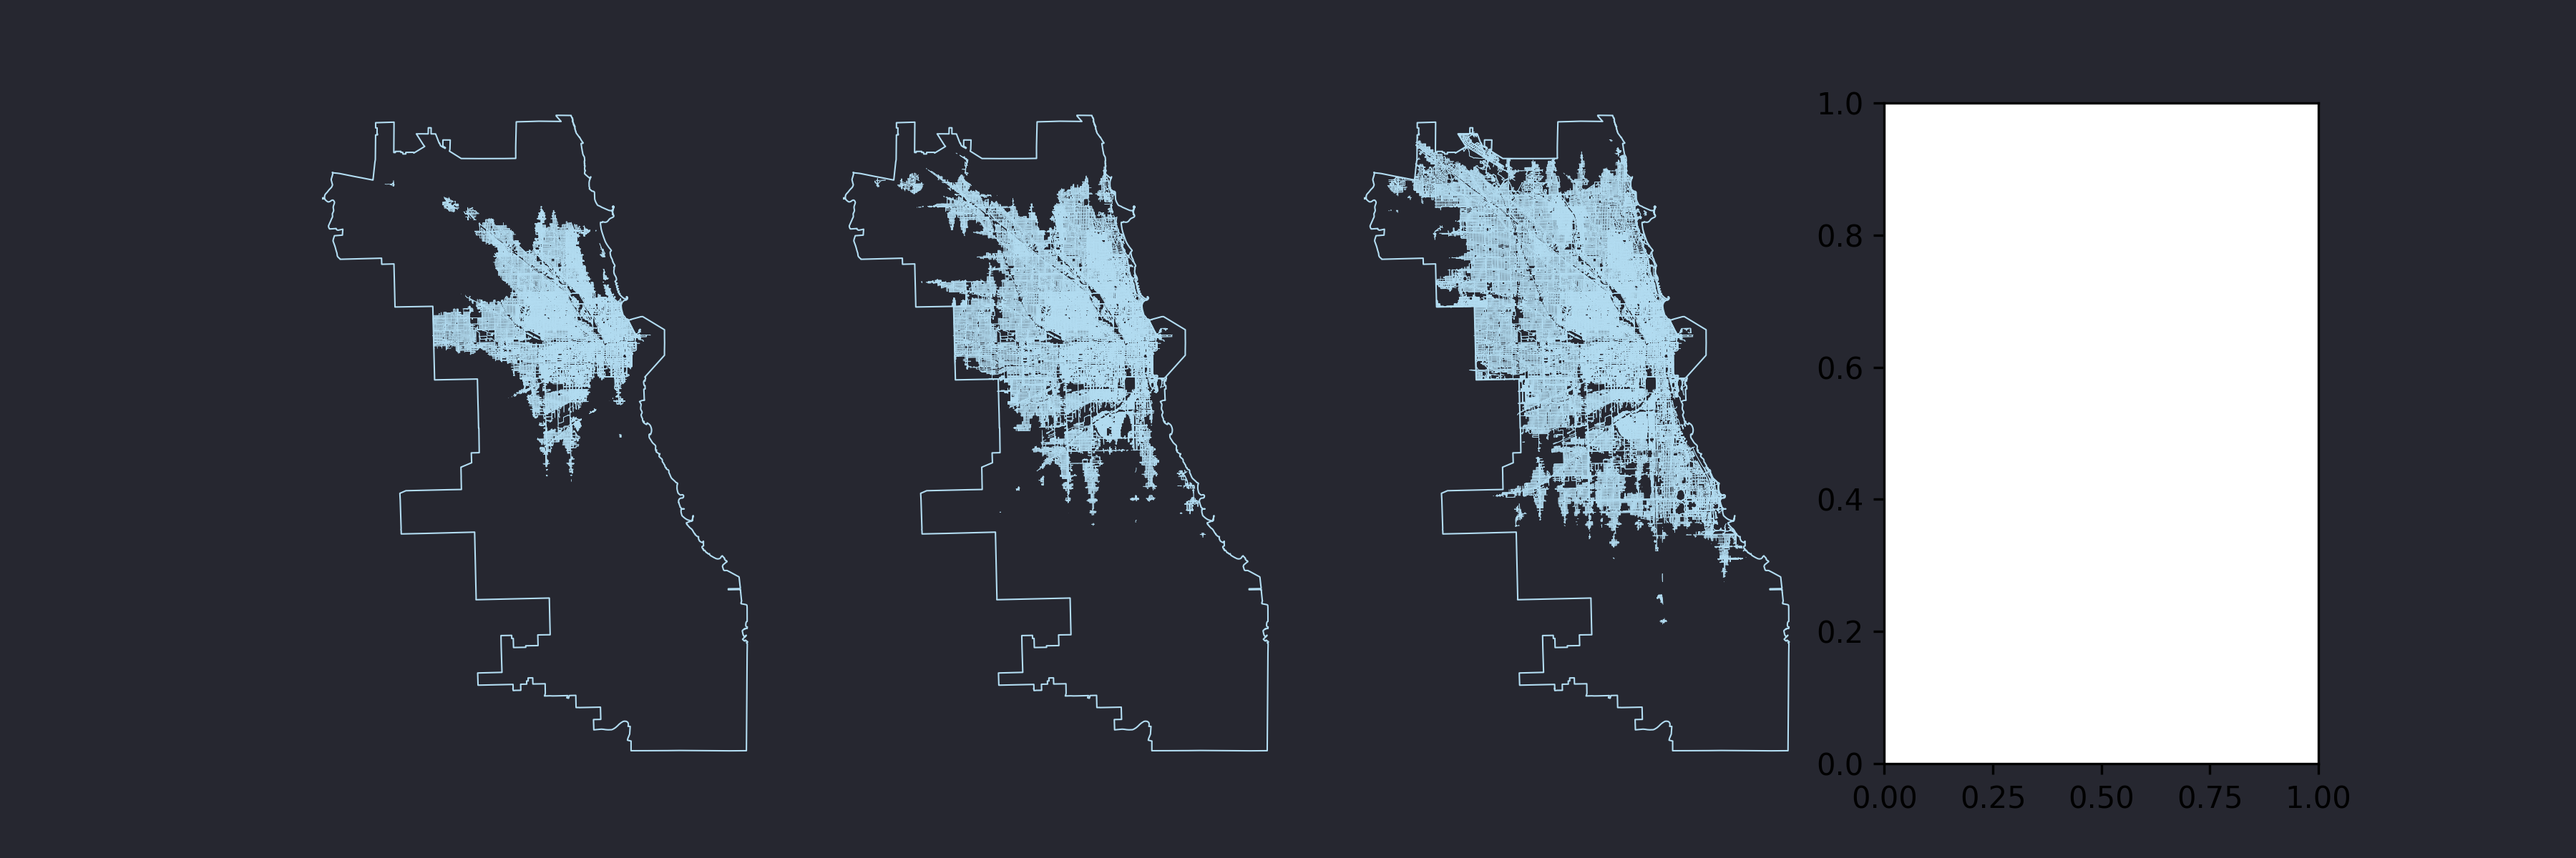
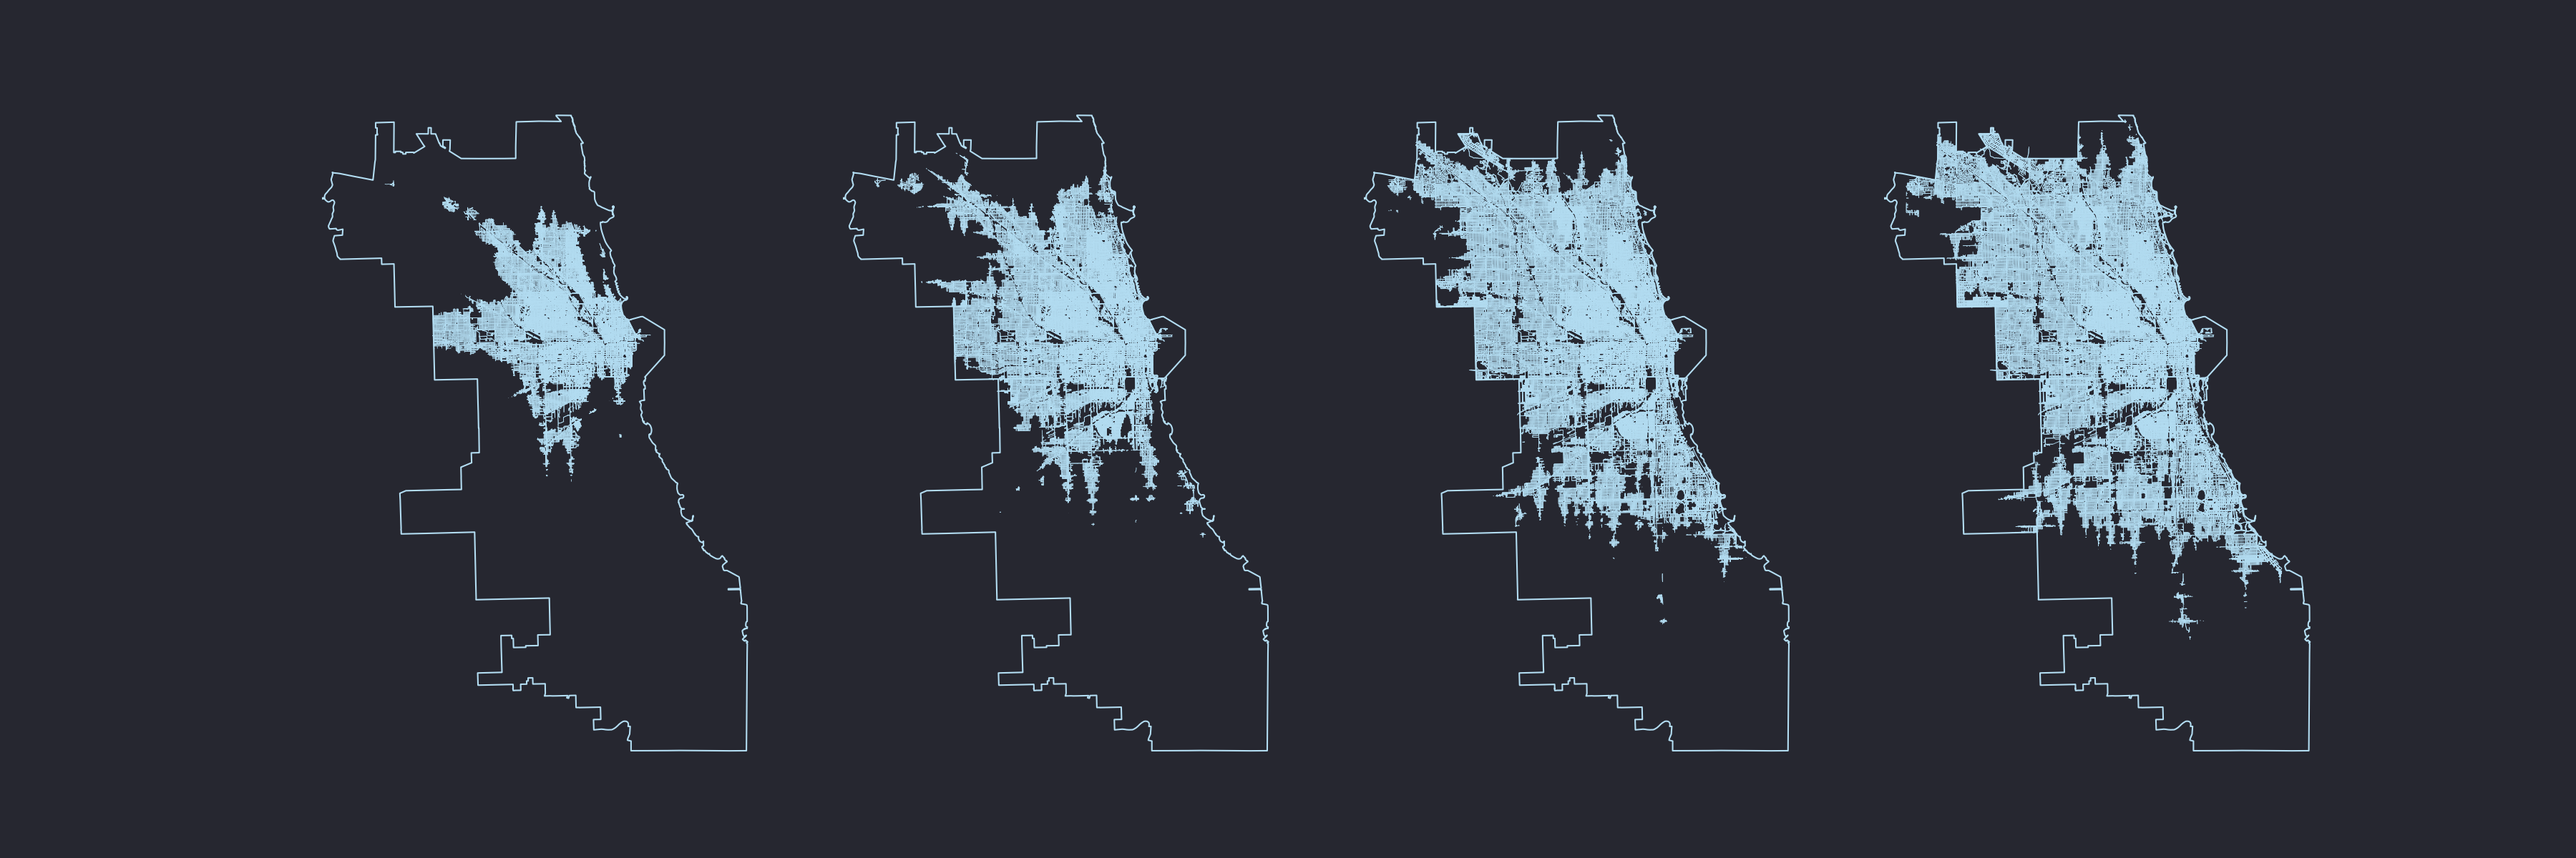
better frequency maps

Changed region(s): [[0.7156, 0.0925, 0.9022, 0.9558], [0.84, 0.925, 0.8711, 0.9558]]

diff --git a/app.py b/app.py
@@ -83,6 +83,13 @@ caption = """
     """
 st.image(frequency_isochrone, caption=caption)
 
+frequency_isochrone = "plots/frequency_isochrone_60_min_trips.png"
+caption = """
+    One hour trips at half scheduled service, scheduled service, twice as 
+    often as scheduled service, and three times as often.
+    """
+st.image(frequency_isochrone, caption=caption)
+
 lg.write_text("Better Bus Service")
 
 

diff --git a/preprocess_data.py b/preprocess_data.py
@@ -84,9 +84,9 @@ if __name__ == "__main__":
     # graph = gtfs.build_transit_graph()
 
     # Isochrone Images
-    walking_isochrone_from_my_apartment()
+    # walking_isochrone_from_my_apartment()
     # transit_isochrone_from_my_apartment()
-    # frequency_isochrones_from_my_apartment()
+    frequency_isochrones_from_my_apartment()
     # frequency_maps()
 
 
